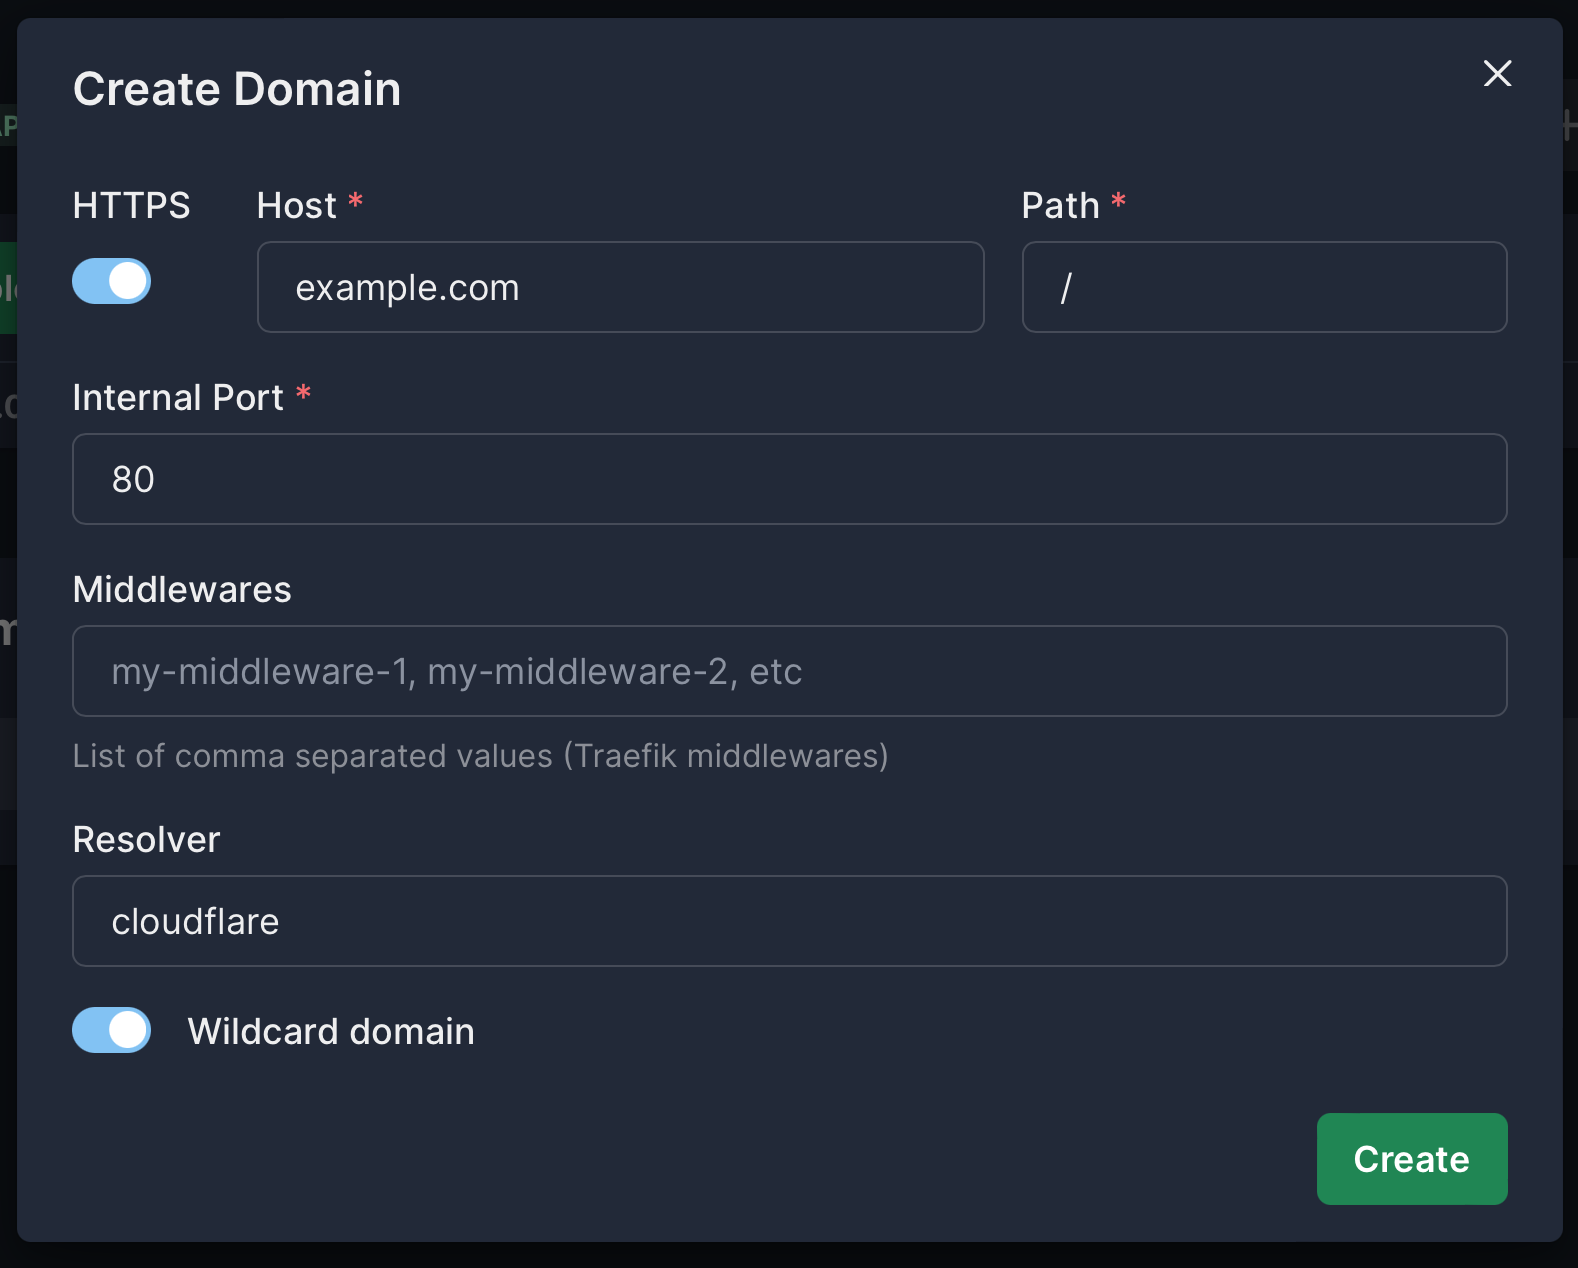
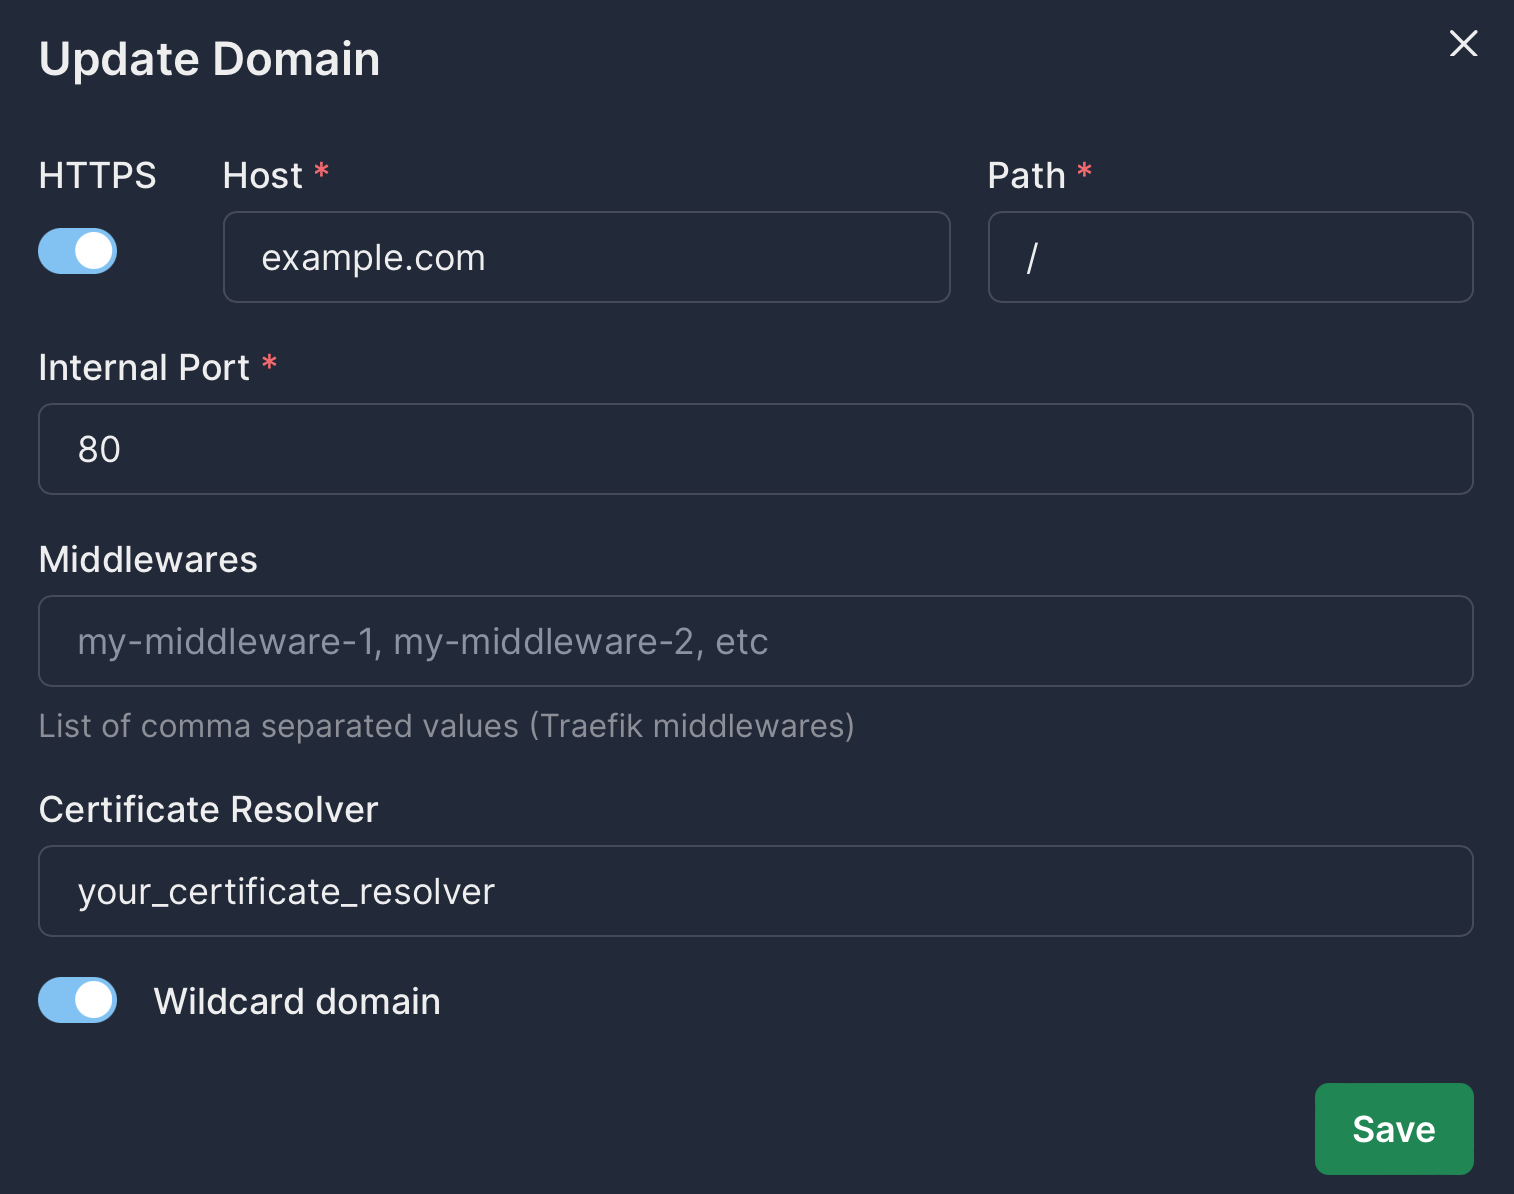
fix guide

Changed region(s): [[0.0, 0.0, 1.0, 1.0], [0.1552, 0.124, 0.3415, 0.2479], [0.6209, 0.124, 0.714, 0.2479]]

diff --git a/docs/02-guides/08-wildcard-domain/index.md b/docs/02-guides/08-wildcard-domain/index.md
@@ -8,21 +8,28 @@ description: Learn how to configure a wildcard domain in Easypanel.
 
 In this guide, we'll walk you through the process of configuring a wildcard domain in Easypanel. Follow these steps to successfully set up your wildcard domain.
 
-For detailed instructions on configuring your Traefik variables for any available provider, refer to the [Official Traefik Documentation](https://doc.traefik.io/traefik/https/acme/#dnschallenge). For this guide, we'll use Cloudflare as an example.
+## Step 1 - Create a Certificate Resolver
 
-## Step 1 - Configure Your Traefik Environment
-
-1. Open the Traefik environment editor from settings inside Easypanel.
+Open the Traefik environment editor from settings inside Easypanel.
 
 :::info
-Replace `YOUR_API_KEY` with your Cloudflare DNS API key and `YOUR_EMAIL_ADDRESS` with your actual email address.
+Replace `<PROVIDER_NAME>` with your desired provider's name.
 :::
 
-![Environment Editor](./env-editor.png)
+```env
+TRAEFIK_CERTIFICATESRESOLVERS_<PROVIDER_NAME>_ACME_EMAIL=
+TRAEFIK_CERTIFICATESRESOLVERS_<PROVIDER_NAME>_ACME_STORAGE=
+TRAEFIK_CERTIFICATESRESOLVERS_<PROVIDER_NAME>_ACME_DNSCHALLENGE_PROVIDER=
+TRAEFIK_CERTIFICATESRESOLVERS_<PROVIDER_NAME>_ACME_DNSCHALLENGE_RESOLVERS=1.1.1.1,8.8.8.8
+```
 
-## Step 2 - Create Your Wildcard Domain
+## Step 2 - Set Credentials for Your Provider
 
-Go to your service domains page inside your Easypanel instance and click "Add Domain".
+See available providers on the [Official Traefik Documentation](https://doc.traefik.io/traefik/https/acme/#dnschallenge) and set your credentials in the Traefik environment.
+
+## Step 3 - Create Your Wildcard Domain
+
+Go to your service domains page inside your Easypanel instance and click "Add Domain". Make sure to put the same certificate resolver as set in env under `TRAEFIK_CERTIFICATESRESOLVERS_<PROVIDER_NAME>_ACME_DNSCHALLENGE_PROVIDER`.
 
 :::caution
 **If you activate the Wildcard domain option**, only **\*.example.com** will point to your service. To have both **example.com** and **\*.example.com** point to your service, you need to create **2 separate domains**.
